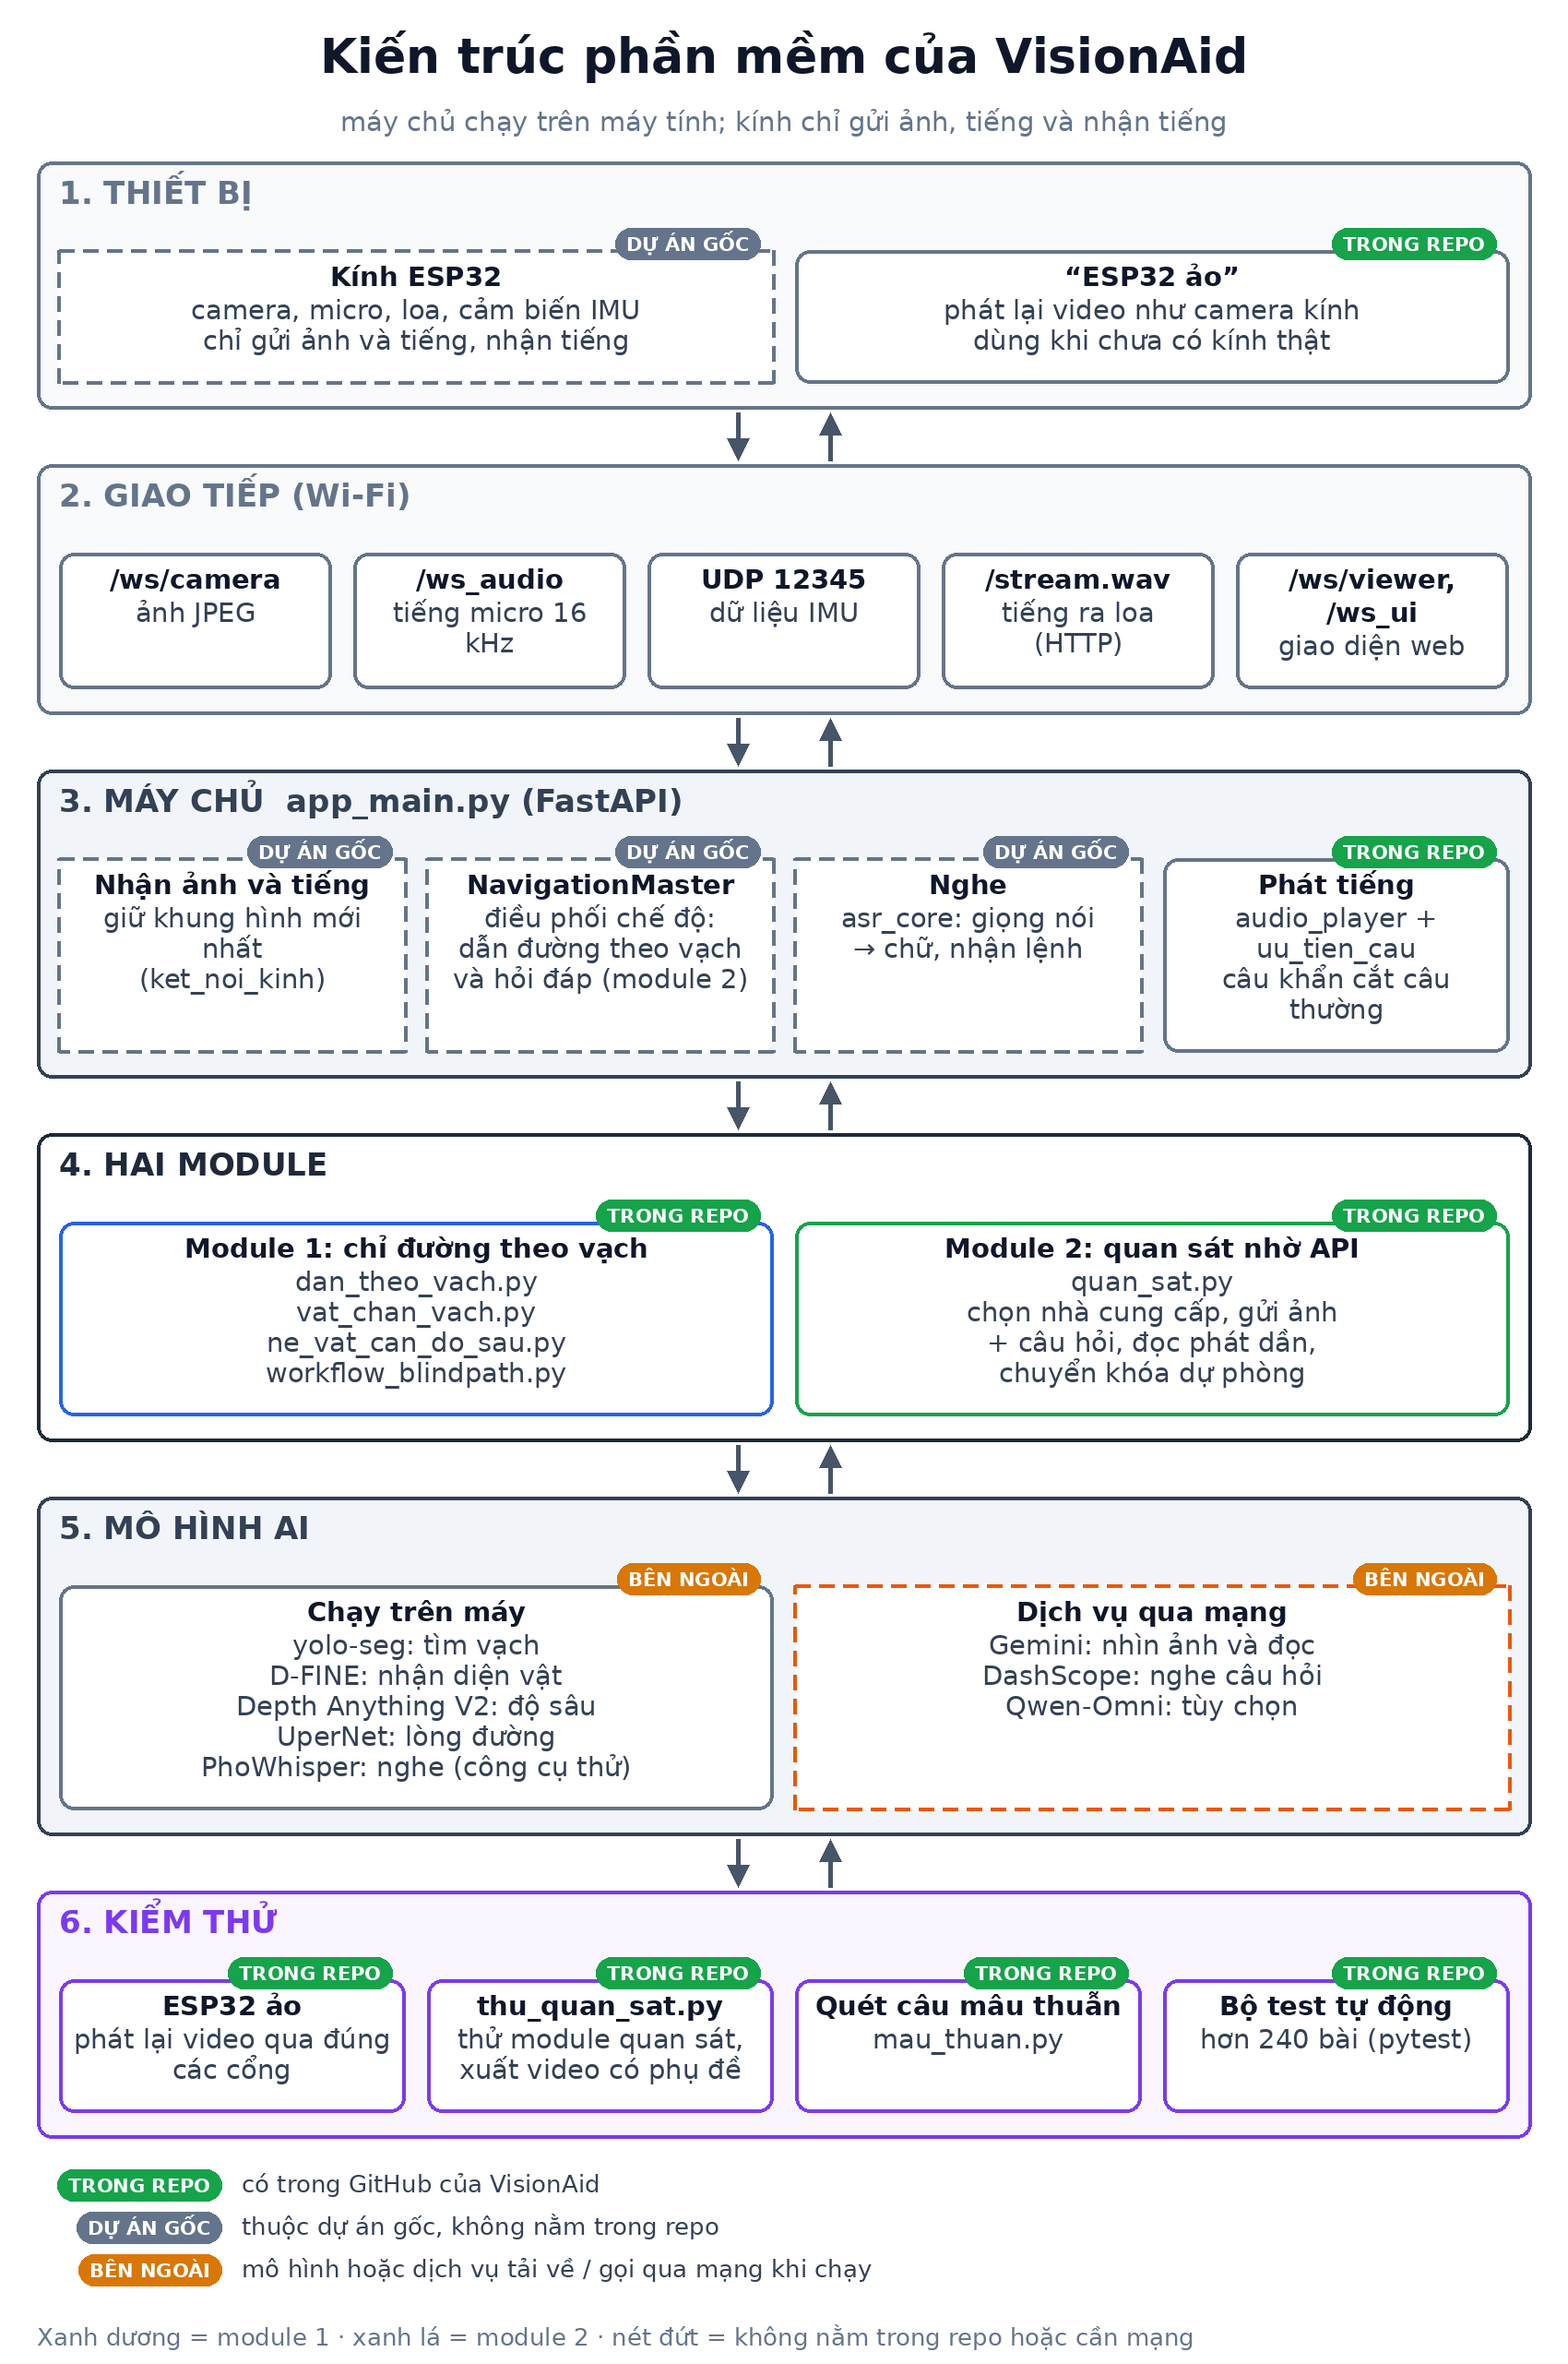
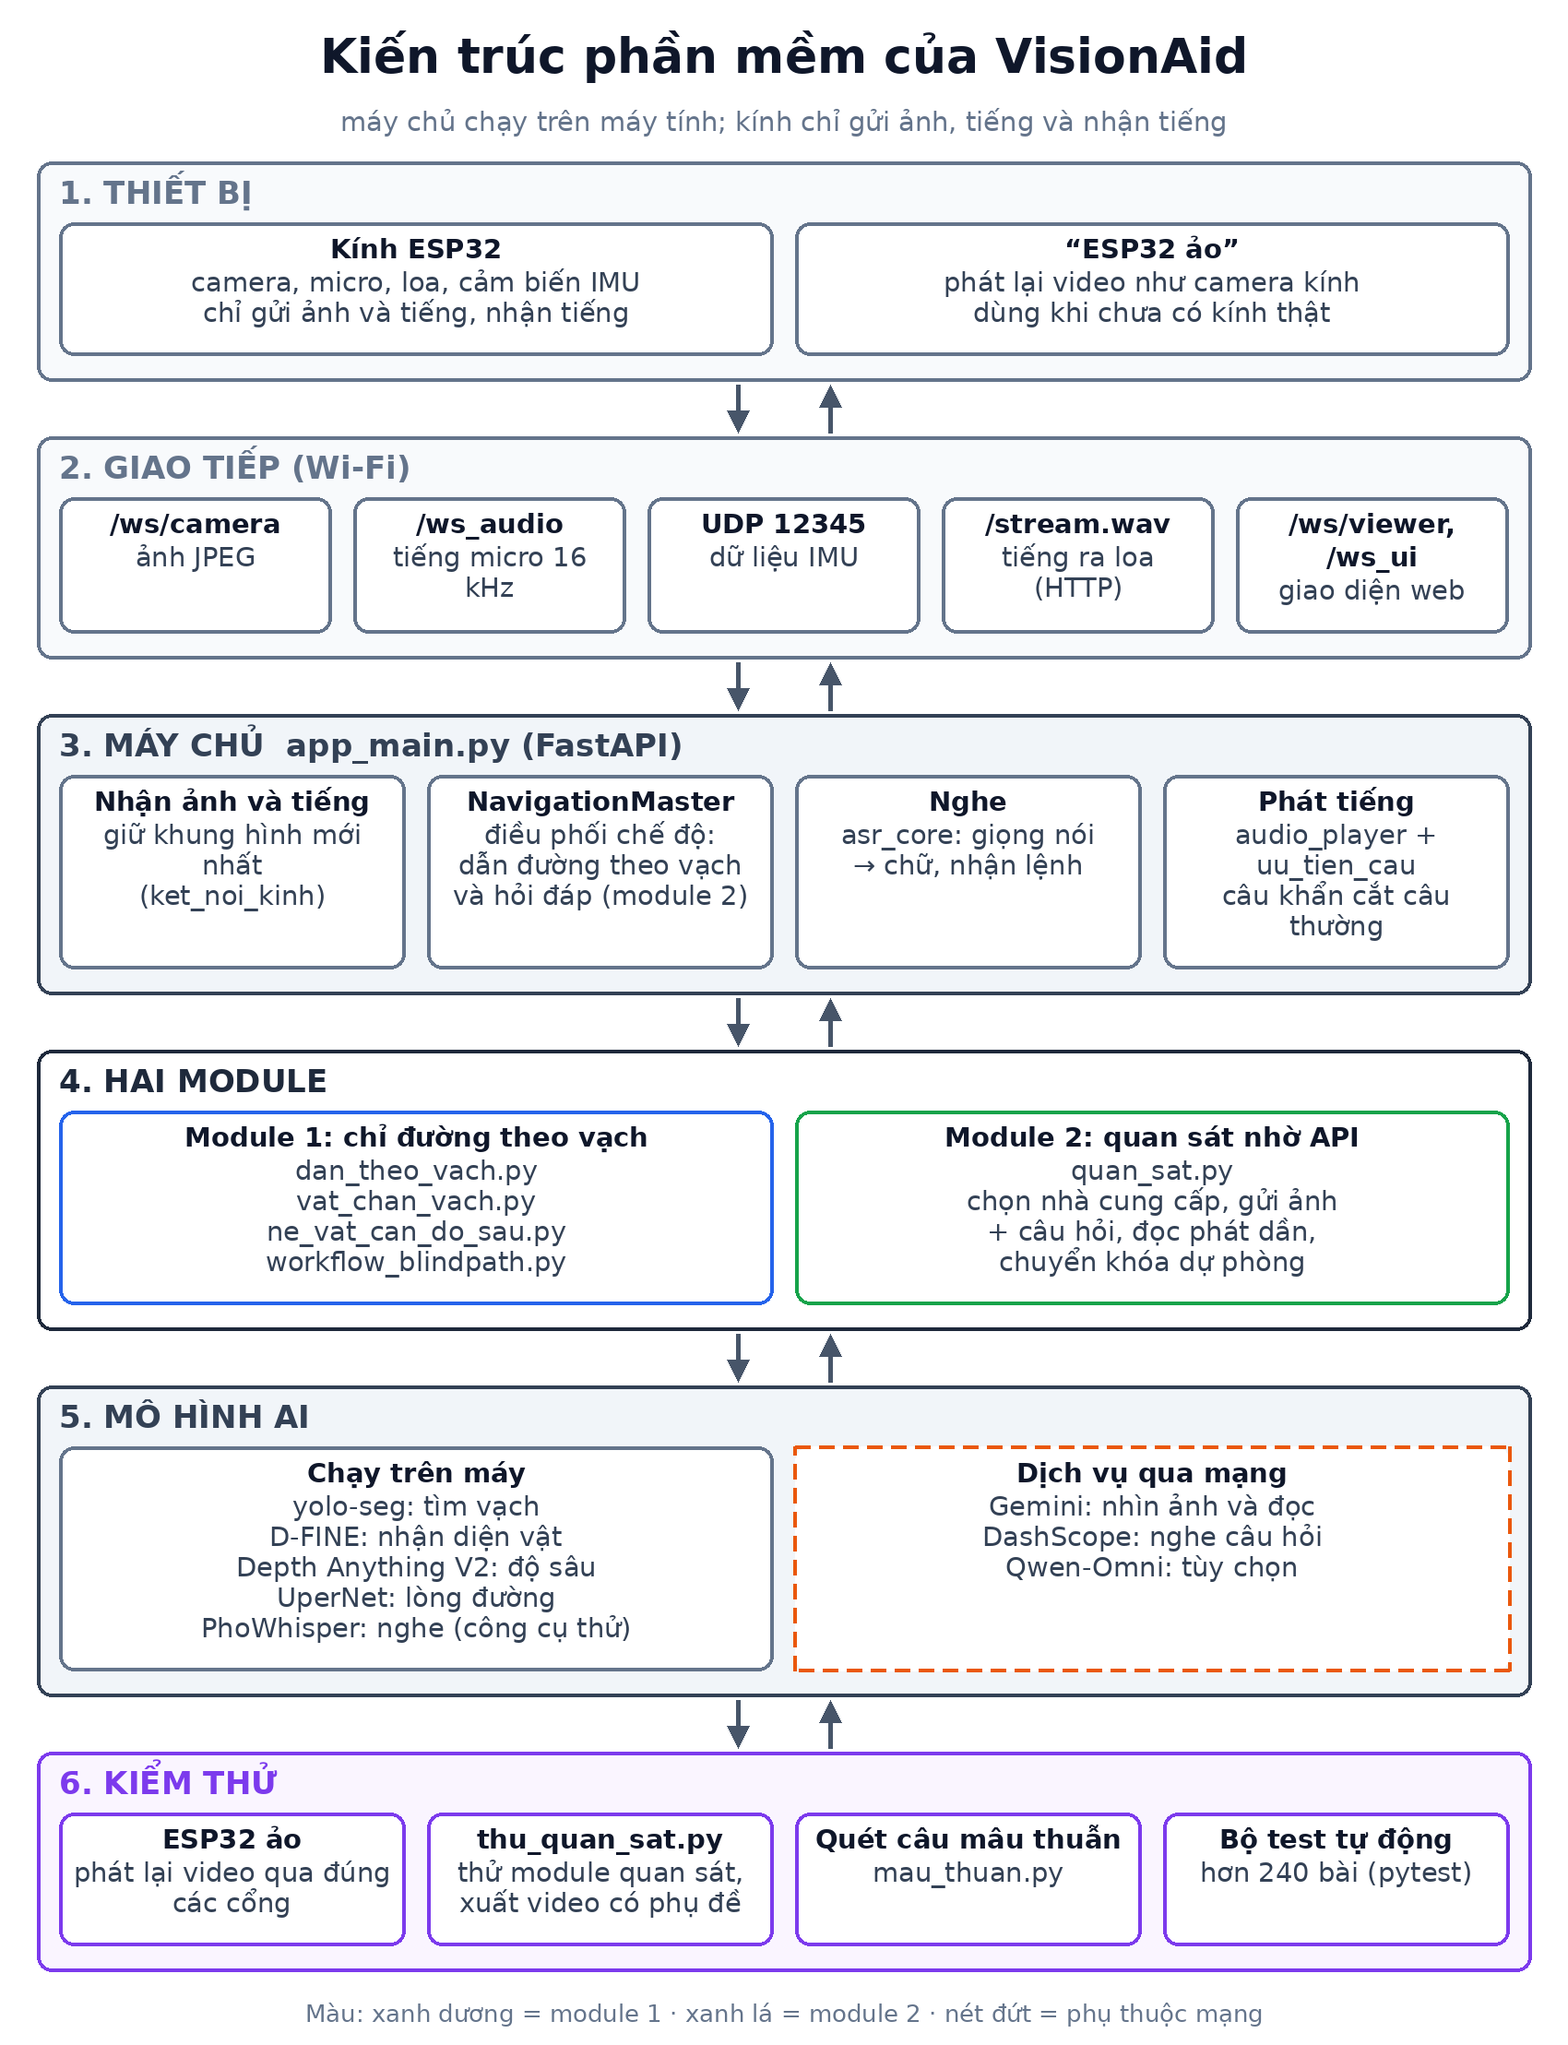
Sơ đồ kiến trúc: bỏ nhãn trong/ngoài repo như bản đầu; sửa lời dẫn trong README

Changed region(s): [[0.0, 0.0, 0.9976, 0.9959]]

diff --git a/README.md b/README.md
@@ -47,9 +47,8 @@ Mọi câu nói và hình vẽ trong video là đầu ra thật của hệ thố
 
 ## Kiến trúc
 
-Các sơ đồ dưới đây mô tả **cả hệ thống đang chạy**. Repo này chỉ chứa **hai module** và phần phụ thuộc cần để chạy
-test. Khối gắn nhãn **DỰ ÁN GỐC** (máy chủ `app_main.py`, `NavigationMaster`, nghe giọng nói, firmware kính) không nằm
-trong repo; khối gắn **TRONG REPO** thì có ở đây.
+Các sơ đồ dưới đây mô tả hệ thống đầy đủ. Repo này chứa **hai module** cùng phần phụ thuộc cần để chạy test; máy chủ
+`app_main.py`, `NavigationMaster`, phần nghe giọng nói và firmware kính lấy từ dự án gốc.
 
 **Phần mềm**
 
